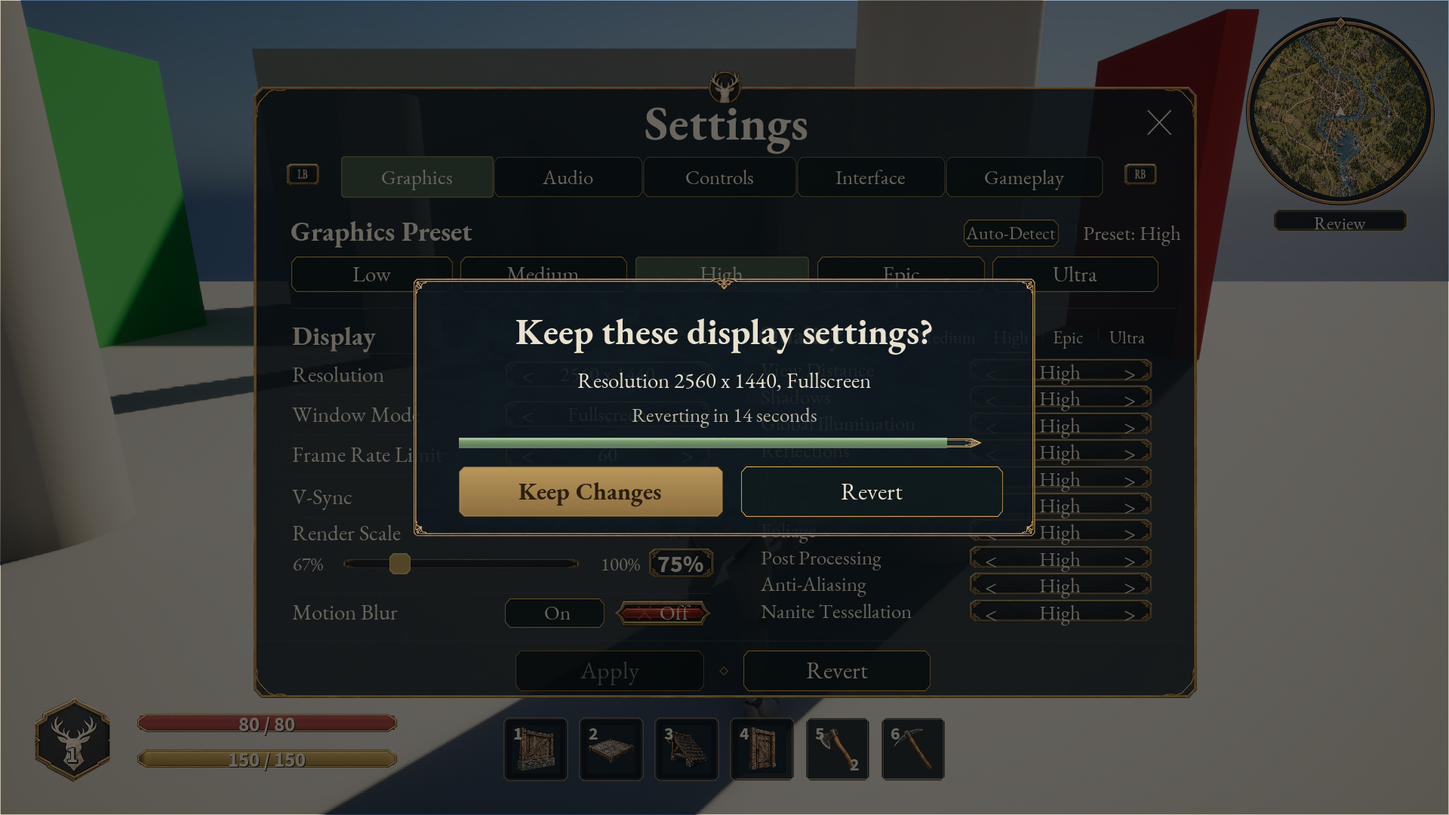
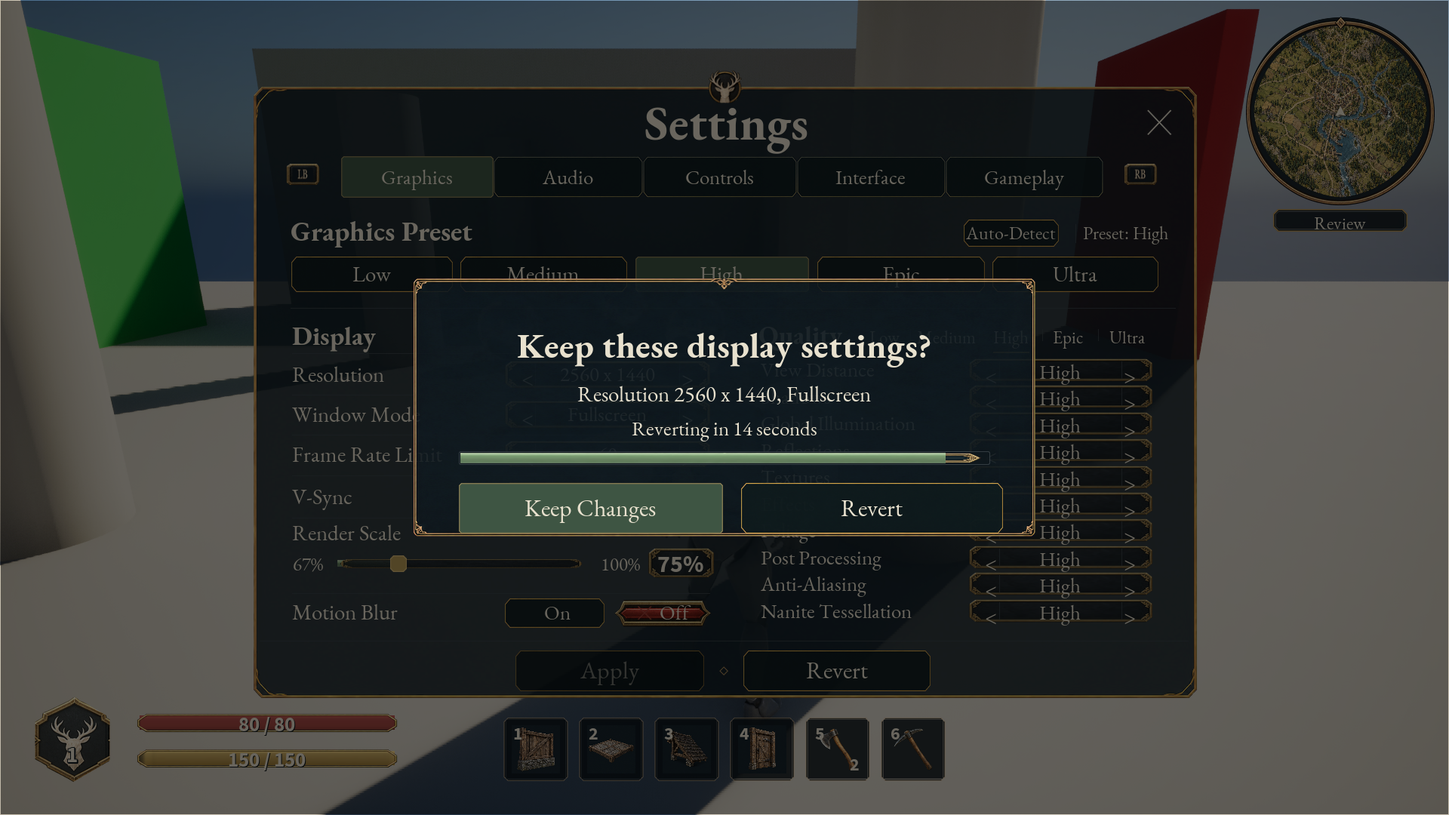
Graphics menu: apply Fable review 1 code fixes (stepper dividers, keep prompt, slider fill, Silverbrook scene captures)

Changed region(s): [[0.3125, 0.3972, 0.6875, 0.6722], [0.75, 0.275, 0.8125, 0.3056]]

diff --git a/GameClient/Source/ShatteredFrontier/Private/Framework/SFGraphicsMenu.cpp b/GameClient/Source/ShatteredFrontier/Private/Framework/SFGraphicsMenu.cpp
@@ -153,7 +153,7 @@ void USFGraphicsMenu::NativeOnInitialized()
     Click(Detect.Button, [Self]() { if (USFGraphicsMenu* Menu = Self.Get()) { Menu->DoAutoDetect(); } });
     Put(Stage, Detect.Root, 1112.f, 253.f, 110.f, 31.f);
     Put(Stage, Panel(WidgetTree, Hairline(), Hairline(), FMargin(0.f), 0.f), 1241.f, 258.f, 1.f / S, 22.f);
-    UTextBlock* Status = Text(WidgetTree, TEXT("Preset: High"), 20, Ivory());
+    UTextBlock* Status = Text(WidgetTree, TEXT("Preset: High"), 18, Ivory());
     StatusText = Status;
     PutText(Stage, Status, 1250.f, 269.f);
     for (int32 Index = 0; Index < 5; ++Index)
@@ -182,7 +182,7 @@ void USFGraphicsMenu::NativeOnInitialized()
         ValueSlot->SetHorizontalAlignment(HAlign_Center); ValueSlot->SetVerticalAlignment(VAlign_Center);
         for (int32 Dir : {-1, 1})
         {
-            UTextBlock* Arrow = Text(WidgetTree, Dir < 0 ? TEXT("<") : TEXT(">"), FontSize + 2, Ivory()); Arrow->SetJustification(ETextJustify::Center); Arrow->SetRenderTranslation(FVector2D(0.f, -4.f));
+            UTextBlock* Arrow = Text(WidgetTree, Dir < 0 ? TEXT("<") : TEXT(">"), FontSize + 2, Ivory()); Arrow->SetJustification(ETextJustify::Center);
             USizeBox* Hit = WidgetTree->ConstructWidget<USizeBox>(USizeBox::StaticClass());
             Hit->SetWidthOverride(36.f); Hit->SetContent(Arrow);
             UBorder* Center = WidgetTree->ConstructWidget<UBorder>(UBorder::StaticClass());
@@ -191,6 +191,15 @@ void USFGraphicsMenu::NativeOnInitialized()
             Click(ArrowButton, [Self, Step, Dir]() { Step(Dir); if (USFGraphicsMenu* Menu = Self.Get()) { Menu->Refresh(); } });
             UOverlaySlot* ArrowSlot = Box->AddChildToOverlay(ArrowButton);
             ArrowSlot->SetHorizontalAlignment(Dir < 0 ? HAlign_Left : HAlign_Right); ArrowSlot->SetVerticalAlignment(VAlign_Fill); ArrowSlot->SetPadding(FMargin(4.f, 0.f));
+        }
+        for (const bool bLeft : {true, false})
+        {
+            USizeBox* Divider = WidgetTree->ConstructWidget<USizeBox>(USizeBox::StaticClass());
+            Divider->SetWidthOverride(1.f); Divider->SetContent(Panel(WidgetTree, Hairline(), Hairline(), FMargin(0.f), 0.f));
+            Divider->SetVisibility(ESlateVisibility::HitTestInvisible);
+            UOverlaySlot* DividerSlot = Box->AddChildToOverlay(Divider);
+            DividerSlot->SetHorizontalAlignment(bLeft ? HAlign_Left : HAlign_Right); DividerSlot->SetVerticalAlignment(VAlign_Fill);
+            DividerSlot->SetPadding(FMargin(bLeft ? 40.f : 0.f, 4.f, bLeft ? 0.f : 40.f, 4.f));
         }
         Steppers.Add({ValueText, MoveTemp(Value)});
         return Box;
@@ -208,6 +217,7 @@ void USFGraphicsMenu::NativeOnInitialized()
             UHorizontalBox* Content = WidgetTree->ConstructWidget<UHorizontalBox>(UHorizontalBox::StaticClass());
             Content->SetVisibility(ESlateVisibility::HitTestInvisible);
             USizeBox* Glyph = SFHudStyle::KitImage(WidgetTree, bOnSide ? TEXT("status_tick") : TEXT("status_cross"), 24.f);
+            if (UImage* GlyphImage = Cast<UImage>(Glyph->GetContent())) { GlyphImage->SetColorAndOpacity(SFHudStyle::Ivory()); }
             Content->AddChildToHorizontalBox(Glyph)->SetVerticalAlignment(VAlign_Center);
             Content->AddChildToHorizontalBox(SFHudStyle::Text(WidgetTree, bOnSide ? TEXT("On") : TEXT("Off"), 20, SFHudStyle::Ivory()))->SetPadding(FMargin(8.f, 0.f, 0.f, 0.f));
             UOverlaySlot* ContentSlot = Face->AddChildToOverlay(Content);
@@ -258,11 +268,16 @@ void USFGraphicsMenu::NativeOnInitialized()
     Slider->SetMinValue(67.f); Slider->SetMaxValue(100.f); Slider->SetStepSize(1.f);
     FSliderStyle SliderStyle = Slider->GetWidgetStyle();
     if (const FSFHudKitElement* Track = Kit(TEXT("slider_track"))) { SliderStyle.NormalBarImage = SliderStyle.HoveredBarImage = SliderStyle.DisabledBarImage = KitBrush(*Track); }
-    if (const FSFHudKitElement* Thumb = Kit(TEXT("slider_thumb"))) { SliderStyle.NormalThumbImage = SliderStyle.HoveredThumbImage = SliderStyle.DisabledThumbImage = KitBrush(*Thumb); }
+    if (const FSFHudKitElement* Thumb = Kit(TEXT("slider_thumb"))) { FSlateBrush ThumbBrush = KitBrush(*Thumb); ThumbBrush.ImageSize = FVector2D(22.f, 22.f); SliderStyle.NormalThumbImage = SliderStyle.HoveredThumbImage = SliderStyle.DisabledThumbImage = ThumbBrush; }
     SliderStyle.BarThickness = 12.f;
     Slider->SetWidgetStyle(SliderStyle);
     Slider->OnValueChanged.AddDynamic(this, &USFGraphicsMenu::HandleSlider);
     ScaleSlider = Slider;
+    UProgressBar* ScaleFill = WidgetTree->ConstructWidget<UProgressBar>(UProgressBar::StaticClass());
+    StyleBar(ScaleFill, Moss());
+    FProgressBarStyle FillStyle = ScaleFill->GetWidgetStyle(); FillStyle.BackgroundImage = FSlateNoResource(); ScaleFill->SetWidgetStyle(FillStyle);
+    ScaleFillBar = ScaleFill;
+    Put(Stage, ScaleFill, 389.f, 646.f, 286.f, 8.f);
     Put(Stage, Slider, 383.f, 638.f, 298.f, 24.f);
     PutText(Stage, Text(WidgetTree, TEXT("100%"), 19, Ivory()), 693.f, 650.f);
     UOverlay* ScaleBox = WidgetTree->ConstructWidget<UOverlay>(UOverlay::StaticClass());
@@ -353,25 +368,27 @@ void USFGraphicsMenu::NativeOnInitialized()
     UBorder* Dim = WidgetTree->ConstructWidget<UBorder>(UBorder::StaticClass());
     Dim->SetBrush(Frame(FLinearColor(0.f, 0.f, 0.f, 0.55f), FLinearColor::Transparent, 0.f));
     UCanvasPanelSlot* DimSlot = Prompt->AddChildToCanvas(Dim); DimSlot->SetAnchors(FAnchors(0.f, 0.f, 1.f, 1.f)); DimSlot->SetOffsets(FMargin(0.f));
-    UBorder* Modal = KitPanel(WidgetTree, TEXT("modal_frame"), 1.f, Slate(0.96f), Brass(), FMargin(40.f, 28.f), 6.f);
+    UBorder* Modal = KitPanel(WidgetTree, TEXT("modal_frame"), 1.f, Slate(0.96f), Brass(), FMargin(40.f, 48.f), 6.f);
     UVerticalBox* Body = WidgetTree->ConstructWidget<UVerticalBox>(UVerticalBox::StaticClass());
     Modal->SetContent(Body);
-    UTextBlock* KeepHead = Heading(WidgetTree, TEXT("Keep these display settings?"), 36, Ivory()); KeepHead->SetJustification(ETextJustify::Center);
+    UTextBlock* KeepHead = Heading(WidgetTree, TEXT("Keep these display settings?"), 35, Ivory()); KeepHead->SetJustification(ETextJustify::Center);
     KeepTitle = KeepHead;
     Body->AddChildToVerticalBox(KeepHead)->SetHorizontalAlignment(HAlign_Center);
     UTextBlock* KeepDetail = Text(WidgetTree, TEXT(""), 22, Ivory()); KeepDetail->SetJustification(ETextJustify::Center);
     KeepDetailText = KeepDetail;
     Body->AddChildToVerticalBox(KeepDetail)->SetPadding(FMargin(0.f, 14.f, 0.f, 0.f));
-    UTextBlock* Countdown = Text(WidgetTree, TEXT(""), 20, Hex(TEXT("BDB6A2"))); Countdown->SetJustification(ETextJustify::Center);
+    UTextBlock* Countdown = Text(WidgetTree, TEXT(""), 20, Ivory()); Countdown->SetJustification(ETextJustify::Center);
     KeepCountdown = Countdown;
     Body->AddChildToVerticalBox(Countdown)->SetPadding(FMargin(0.f, 8.f, 0.f, 12.f));
     UProgressBar* Bar = WidgetTree->ConstructWidget<UProgressBar>(UProgressBar::StaticClass());
     StyleBar(Bar, Moss()); Bar->SetPercent(1.f); KeepBar = Bar;
     USizeBox* BarSize = WidgetTree->ConstructWidget<USizeBox>(USizeBox::StaticClass());
-    BarSize->SetWidthOverride(574.f * S); BarSize->SetHeightOverride(14.f); BarSize->SetContent(Bar);
+    BarSize->SetWidthOverride(574.f * S); BarSize->SetHeightOverride(18.f);
+    UBorder* BarFrame = Panel(WidgetTree, WellFill(), Hairline(), FMargin(2.f), 3.f); BarFrame->SetContent(Bar); BarSize->SetContent(BarFrame);
     Body->AddChildToVerticalBox(BarSize)->SetPadding(FMargin(0.f, 0.f, 0.f, 24.f));
     UHorizontalBox* Buttons = WidgetTree->ConstructWidget<UHorizontalBox>(UHorizontalBox::StaticClass());
-    const FSFHudButton Keep = Button(WidgetTree, TEXT("Keep Changes"), EButtonKind::Primary, 305.f * S);
+    const FSFHudButton Keep = Button(WidgetTree, TEXT("Keep Changes"), EButtonKind::Secondary, 305.f * S);
+    ApplyButtonStyle(Keep.Button, EButtonKind::Secondary, true);
     Keep.Root->SetHeightOverride(58.f * S);
     Click(Keep.Button, [Self]() { if (USFGraphicsMenu* Menu = Self.Get()) { Menu->DoKeep(); } });
     const FSFHudButton Undo = Button(WidgetTree, TEXT("Revert"), EButtonKind::Secondary, 302.f * S);
@@ -454,7 +471,7 @@ void USFGraphicsMenu::Refresh()
         if (Entry.OnTick.IsValid()) { Entry.OnTick->SetVisibility(bOn ? ESlateVisibility::HitTestInvisible : ESlateVisibility::Collapsed); }
         if (Entry.OffCross.IsValid()) { Entry.OffCross->SetVisibility(bOn ? ESlateVisibility::Collapsed : ESlateVisibility::HitTestInvisible); }
     }
-    if (ScaleSlider.IsValid()) { bRefreshingSlider = true; ScaleSlider->SetValue(static_cast<float>(Pending.RenderScale)); bRefreshingSlider = false; }
+    if (ScaleSlider.IsValid()) { bRefreshingSlider = true; ScaleSlider->SetValue(static_cast<float>(Pending.RenderScale)); if (ScaleFillBar.IsValid()) { ScaleFillBar->SetPercent((Pending.RenderScale - 67) / 33.f); } bRefreshingSlider = false; }
     if (ScaleText.IsValid()) { ScaleText->SetText(FText::FromString(FString::Printf(TEXT("%d%%"), Pending.RenderScale))); }
     int32 All = -1;
     if (Pending.ViewDistance == Pending.Shadows && Pending.Shadows == Pending.GlobalIllumination && Pending.GlobalIllumination == Pending.Reflections && Pending.Reflections == Pending.Textures

diff --git a/GameClient/Source/ShatteredFrontier/Public/Framework/SFGraphicsMenu.h b/GameClient/Source/ShatteredFrontier/Public/Framework/SFGraphicsMenu.h
@@ -76,7 +76,7 @@ private:
     TWeakObjectPtr<UTextBlock> StatusText, ScaleText, KeepTitle, KeepDetailText, KeepCountdown;
     TWeakObjectPtr<UButton> ApplyButton;
     TWeakObjectPtr<USlider> ScaleSlider;
-    TWeakObjectPtr<UProgressBar> KeepBar;
+    TWeakObjectPtr<UProgressBar> KeepBar, ScaleFillBar;
     TWeakObjectPtr<UWidget> KeepLayer;
     bool bRefreshingSlider = false;
     bool bSuppressEngineApply = false;

diff --git a/docs/evidence/graphics-settings/REVIEW-1.md b/docs/evidence/graphics-settings/REVIEW-1.md
@@ -1,0 +1,93 @@
+# Settings > Graphics: independent review (Fable, 2026-10-22)
+
+Judged against `docs/Game-Design/concept-art/UI/v5/14b-settings-graphics.png`, `14c-settings-keep-revert.png`, DEC-05 (`docs/decisions/OWNER-2026-10-22-decisions.md`), `docs/blueprints/menus.md` sections 1, 2, 5 and `docs/visual-review.md`. Every full-size frame in `captures/` was read at 1920x1080; pixel reports in `diff/*/report.md` were weighed with the note that the AI concept's proportions are loose. All measurements below are at 1920x1080, live minus concept.
+
+Result: 4 PASS, 7 FAIL.
+
+| Screen | Verdict |
+| --- | --- |
+| Graphics menu (High) | FAIL |
+| Preset Low | PASS (behaviour) |
+| Preset Medium | PASS (behaviour) |
+| Preset High | PASS (behaviour) |
+| Preset Epic | PASS (behaviour) |
+| Preset Ultra | FAIL (shares every menu defect; behaviour correct) |
+| Custom | FAIL (shares every menu defect; behaviour correct) |
+| Keep prompt | FAIL |
+| Scene Low | FAIL (evidence) |
+| Scene High | FAIL (evidence) |
+| Scene Ultra | FAIL (evidence) |
+
+Behaviour (highlight, label, strip underline, Apply enable, keep timer) is correct on every state. The menu fails on art treatment and geometry, not on logic. The scene frames fail as evidence, not as rendering.
+
+## Graphics menu (High) - FAIL
+
+Pixel report: 2 of 33 elements PASS. Layout (window 1249x810 at 336,115; tabs; preset buttons; footer) is within tolerance. The failures are the control art and the header ornaments.
+
+1. **Stepper arrows sit low and are text glyphs.** Concept: chevron glyphs vertically centred in their own 36 px end cells with a hairline divider between cell and value; live: `<` `>` EB Garamond text at 22 px, baseline 4-5 px below the value's centre line (measured in `captures/menu-high.png` at the Resolution row: value centre y 496, arrow centre y 500-501), no divider cells. Same on all 13 steppers (3 display, 10 quality).
+   Fix type: CODE. `SFGraphicsMenu.cpp` `Stepper` lambda, lines 185-193: replace the `UTextBlock` arrows with `KitImage(WidgetTree, TEXT("chevron_left"|"chevron_right"), 14.f, 14.f)` if the kit has them, otherwise keep the text but drop `SetRenderTranslation(FVector2D(0.f, -4.f))` and set `Arrow->SetFont(RoleFont(TextFamily(), FontSize, false))` with `ArrowSlot->SetVerticalAlignment(VAlign_Center)` and `SetPadding(FMargin(10.f, 0.f))`, and add a 1 px `Hairline()` `Panel` at x 36 and x W-36 inside the overlay (concept divider). Verify: arrow glyph centre within 1 px of the value centre.
+2. **Stepper plate art differs from the concept.** Concept: plain rounded well with a single brass hairline (272x37, radius ~4); live: `stepper_field` piece with ornamental brass corner wedges and a visible dark gradient, and the diff found the live plate 41 px wider and 19 px taller than the concept rect (dx -20, dy -10) because the piece's wedges extend past the nine-slice body. Quality rows: live 243 wide but shifted +7 px and 14 px narrower in the body.
+   Fix type: ART (shared). `GameClient/ArtSource/UI/Kit-v5/stepper_field.png`, regenerate at 2x (544x74), nine-slice [36,19,36,19] kept, prompt: "UI nine-slice field plate, dark slate well #0E171C with a single 2 px brass #A98A55 hairline border, 8 px corner radius, no corner ornaments, no inner gradient, flat; reference crop: 14b-settings-graphics.png x 582-820, y 416-448 (Resolution stepper)". Then `py -3 tools/Process-KitV5.py` and `tools/Run-InEditor.py tools/Import-HudKit.py --save`. Station panel uses the same piece; recapture it too.
+3. **Toggle Off plate is the shield-shaped destructive piece and the cross is invisible.** Concept Off (chosen) is a rounded crimson plate 129x39 with an ivory ✕; live `button_destructive` has pointed brass end caps that overhang the row box by ~8 px each side (x 818-942 against the 820-940 slot) and the `status_cross` glyph renders dark red on crimson (sampled 30,23,18 on the plate vs ivory in the concept), effectively missing at 1:1. Affects V-Sync and Motion Blur rows in every state.
+   Fix type: CODE + ART. CODE: `SFGraphicsMenu.cpp` `Toggle` lambda line 210, after `KitImage(...)`, tint the glyph: `if (UImage* Img = Cast<UImage>(Glyph->GetChildAt(0))) { Img->SetColorAndOpacity(Ivory()); }`. ART (shared): `Kit-v5/button_destructive.png`, regenerate at 2x (same canvas), nine-slice [40,28,...] kept, prompt: "UI nine-slice button plate, crimson #A34842 fill, 2 px brass #A98A55 hairline, 8 px radius, straight ends, no pointed caps; reference crop: 14b-settings-graphics.png x 709-820, y 690-725 (Motion Blur Off)".
+4. **Close button is a bare glyph.** Concept: 46x46 boxed X (slate plate, brass hairline); live: 40 px `close_x` glyph on nothing, 8 px left and 7 px up of the concept box. Same piece is used by Inventory, Exchange and Gathering Skills, so this is a kit-wide decision; here it reads as unfinished against the concept.
+   Fix type: ART (shared). `Kit-v5/close_x.png` at 92x92 (2x of 46), prompt: "UI close button, 46x46 at 1x, slate #17232A plate with 2 px brass #A98A55 hairline and 6 px radius, centred ivory #E8E1CE X stroke 3 px; reference crop: 14b-settings-graphics.png x 1318-1358, y 121-161". CODE: `SFGraphicsMenu.cpp` line 133 `Put(Stage, Close, 1318.f, 121.f, 40.f, 40.f)` -> `Put(Stage, Close, 1313.f, 116.f, 46.f, 46.f)` and `KitImage(..., 46.f)` on line 131.
+5. **Controller keycaps are unreadable.** Concept `LB`/`RB`: 48x30 pill, label ~16 px cap height; live: 44x28 rectangle with ~9 px text.
+   Fix type: ART (shared). `Kit-v5/keycap_lb.png` and `keycap_rb.png` at 96x60 (2x), prompt: "Controller keycap pill 48x30 at 1x, slate #17232A fill, 2 px brass #A98A55 hairline, full-radius ends, centred label 'LB' (resp. 'RB') in EB Garamond bold ~16 px ivory #E8E1CE; reference crop: 14b-settings-graphics.png x 330-372, y 189-215". CODE: `SFGraphicsMenu.cpp` lines 134-135 size args `44.f, 30.f` and `44.f / S, 28.f / S` -> `48.f, 30.f` and `48.f / S, 30.f / S`.
+6. **Header ornaments are missing.** Concept: a crest tab (~120x40 trapezoid rising above the frame top at x 900-1020) holding the stag emblem, and flanking title rules "—◇—" (~130 px each side of "Settings" at y 165); live: stag emblem floats over the plain top border at 920-1000 x 95-135, no crest tab, no rules. Title cap height: concept ~44 px box, live 48 pt bold measures ~55 px tall and 215 px wide against the concept's 161x44 (match 0.49).
+   Fix type: ART + CODE. ART: new `Kit-v5/window_crest.png` 240x80 (2x of 120x40), nine-slice none, prompt: "Ornamental brass #A98A55 crest tab for a window frame top edge, trapezoid with chamfered shoulders, dark slate #17232A fill, open at the bottom so it merges with the frame; reference crop: 14b-settings-graphics.png x 780-900, y 68-110". New `Kit-v5/title_rule.png` 260x16 (2x of 130x8), prompt: "Thin brass #A98A55 horizontal rule with a small diamond at the inner end, fades out at the outer end, transparent background; reference crop: 14b-settings-graphics.png x 635-740, y 138-146". CODE: `SFGraphicsMenu.cpp` lines 128-130: `Put(Stage, KitImage(WidgetTree, TEXT("window_crest"), 120.f, 40.f), 779.f, 66.f, 120.f / S, 40.f / S)` before the emblem; `Heading(..., TEXT("Settings"), 42, ...)` (concept box 161x44; re-measure after and settle on the size whose cap height is within 1 px); `Put(Stage, KitImage(WidgetTree, TEXT("title_rule"), 130.f, 8.f), 638.f, 137.f, 130.f / S, 8.f / S)` and a mirrored copy (`SetRenderScale(FVector2D(-1.f, 1.f))`) at x 928.
+7. **Render Scale slider has no filled segment and a square thumb.** Concept: track 342x21 with a moss fill from 67% to the thumb, round brass thumb ~22 px; live: unfilled dark track 12 px thick, rounded-square brass thumb ~30x30, value plate uses the ornamental stepper piece.
+   Fix type: CODE. `SFGraphicsMenu.cpp` lines 257-266: put a `UProgressBar` styled with `StyleBar(Bar, Moss())` under the slider in an overlay (same `Put` rect 383,638,298,24 with `VAlign_Center`, height 12), set its percent in `Refresh()` to `(Pending.RenderScale - 67) / 33.f`; set `SliderStyle.NormalThumbImage.ImageSize = FVector2D(22.f, 22.f)` (and Hovered/Disabled). ART (shared): `Kit-v5/slider_thumb.png` at 44x44 (2x), prompt: "Round brass #A98A55 slider knob 22 px at 1x with a darker brass rim and a small ivory highlight, transparent background; reference crop: 14b-settings-graphics.png x 568-598, y 636-664".
+8. **Selected plate colour is out of tolerance.** `tab_selected` fill samples at (62,85,67) on the Graphics tab and the High preset; dE2000 3.2 and 6.6 against the concept moss (#2B3B2C canonical in menus.md section 1). This is the shared selected piece, so it affects every menu that has already passed; the kit, not this menu, is the place to fix it, and only if the owner wants the darker moss. Reported, not in the fix list.
+9. **Revert footer plate colour.** Live Revert well sampled (16,28,30); concept plate is a lighter grey (dE 8.9). Live follows the canonical `button_normal` well; concept disagrees. Section 1 wins per menus.md section 2; reported only.
+10. **State data vs concept (reported, owner call, not in the fix list).** Concept High shows V-Sync On, Render Scale 85%, Fullscreen; live High (from `SFGraphicsPresets.cpp` `DefaultRow`) is V-Sync off, 75%, and the capture is Windowed. 75% is tied to the GFX-01 Standard tier so the number stays unless the owner changes the tier; V-Sync default is a tuning value. Window mode is capture environment.
+
+## Preset Low / Medium / High / Epic - PASS (behaviour)
+
+Each frame shows exactly one preset plate in the moss selected state, `Preset: <name>` matches it, the Quality strip underlines the same level, all ten quality steppers read that level (Low: Nanite Tessellation "Off", correct), Render Scale/frame cap/Motion Blur follow the preset table (67/70/75/85/100 %, 60/60/60/120/Unlimited, blur on from Epic), Apply enabled when dirty. Visual defects 1-7 above apply to every frame and are counted once in the menu verdict.
+
+## Preset Ultra - FAIL
+
+Behaviour correct (Ultra selected, Unlimited, 100%, Motion Blur On with tick, strip underline on Ultra). Fails on the same art items 1-7 and nothing else; listed FAIL because the frame is also the first time the slider thumb sits at the track's right end, where the live thumb (30 px square) overhangs the track end by 6 px (thumb right edge x 783 vs track end 777 in `captures/menu-ultra.png`). Fix 7 covers it.
+
+## Custom - FAIL
+
+Behaviour correct: Shadows stepped to Ultra, no preset plate highlighted, `Preset: Custom`, no strip underline, Apply enabled. The status text "Preset: Custom" right edge lands at x 1593, 8 px past the window frame's inner edge at 1585 and overlapping the frame's brass hairline (concept keeps a 24 px inset). Fails on that plus items 1-7.
+   Fix type: CODE. `SFGraphicsMenu.cpp` line 158: `PutText(Stage, Status, 1250.f, 269.f)` -> `PutText(Stage, Status, 1350.f, 269.f, 1.f)` (right-align at the Ultra button's right edge, 1337 + 13 in concept units; concept has the label right-aligned to x 1338 at 1080p).
+
+## Keep prompt - FAIL
+
+Modal 823x336 at 548,372 is within 2 px horizontally and 5-7 px short vertically. Behaviour is right: 15 s countdown ticking, bar draining, Keep/Revert wired, Escape reverts.
+
+1. **Keep Changes is brass, concept is moss.** Live primary plate sampled (169,136,82) with dark ink; concept Keep is the moss selected plate with ivory text and brass edge (same as this menu's enabled Apply). dE far beyond 3; match 0.34.
+   Fix type: CODE. `SFGraphicsMenu.cpp` line 374: `Button(WidgetTree, TEXT("Keep Changes"), EButtonKind::Primary, 305.f * S)` -> `EButtonKind::Secondary`, then after it `ApplyButtonStyle(Keep.Button, EButtonKind::Secondary, true)` (the same call the enabled Apply uses on line 340).
+2. **Content sits 9-22 px too high.** Title dy -22, detail -13, countdown -9: the modal's top padding is 28 px against the concept's ~50 px between frame and title cap.
+   Fix type: CODE. `SFGraphicsMenu.cpp` line 356: `FMargin(40.f, 28.f)` -> `FMargin(40.f, 48.f, 40.f, 28.f)`; line 364 detail padding `FMargin(0.f, 14.f, 0.f, 0.f)` -> `FMargin(0.f, 10.f, 0.f, 0.f)`; line 367 countdown `FMargin(0.f, 8.f, 0.f, 12.f)` -> `FMargin(0.f, 4.f, 0.f, 12.f)`. Re-run the diff; target dy within 2 for all four text rows.
+3. **Countdown colour.** Live `Hex("BDB6A2")` samples (117,116,108) on the dark plate; concept countdown is ivory. Fix type: CODE. Line 365 `Hex(TEXT("BDB6A2"))` -> `Ivory()`.
+4. **Bar fill is the HUD stamina-style bar with an arrow tip.** Concept: moss fill inside a brass-framed 659x18 track, square ends; live: 659x14 `bar_fill_moss` whose brass arrow tip overhangs the track by ~12 px at the right (x 1300 vs track end 1288 in `captures/menu-keep.png`) and no visible track frame. Fix type: CODE. Line 371 `SetHeightOverride(14.f)` -> `18.f`, and wrap `Bar` in `Panel(WidgetTree, WellFill(), Hairline(), FMargin(2.f), 3.f)` so the frame shows; if the overhang persists, it is the shared `bar_fill_moss` piece and goes to ART: `Kit-v5/bar_fill_moss.png`, regenerate with square ends (prompt: "nine-slice bar fill, moss #7FA07A with a 1 px darker rim, square ends, no arrow cap; reference crop: 14c-settings-keep-revert.png x 548-1122, y 508-526").
+5. **Title width.** Live 36 pt bold measures 549 wide vs concept 526 (dw +23). Fix type: CODE. Line 359 `36` -> `35`, re-measure; cap height must land within 1 px of the concept's 48 px box.
+6. The stepper and toggle defects of the menu (items 1-3 above) are visible through the dim and count once there.
+
+## Scene Low - FAIL (evidence) / Scene High - FAIL (evidence) / Scene Ultra - FAIL (evidence)
+
+Rendering is sensible: Low has no dynamic shadows from the pillars or the mannequin, sky-only reflections on the spheres, no GI bounce (the wall reads flat blue-grey), darker exposure; High has contact shadows, scene reflections on the spheres, GI bounce on the wall; Ultra sharpens the sphere reflections and shadow edges slightly. Low vs High is unmistakable. High vs Ultra is not: the two frames differ only in reflection detail on three spheres and the only preset values that could show on this test map (view distance, foliage, textures, Nanite tessellation, 75% vs 100% render scale) have nothing to act on. A player comparing High and Ultra here would say nothing changed, so the three frames do not demonstrate the preset ladder DEC-05 asks for.
+   Fix type: LEVEL (capture). Recapture `scene-low/high/ultra.png` in `/Game/Frontier/Maps/Greenlands/Greenlands_Silverbrook` from the same bookmark as the HUD captures (foliage, distant buildings, textured props), 1920x1080 `-game`, same time of day; keep the test-map set as a secondary strip. Acceptance: at 1:1 crop, Ultra vs High shows at least one of: farther foliage/draw distance, higher texture mip, finer shadow cascade on a near prop; Low vs High unchanged from now.
+
+## Fix list
+
+Shared fixes first. Items 1-5 are the top five.
+
+1. **Engineer** - Stepper arrows: `SFGraphicsMenu.cpp` `Stepper` lambda lines 185-193, remove the -4 px render translation, centre the glyph in a 36 px cell with `VAlign_Center`, add the two hairline cell dividers (menu item 1). Covers all 13 steppers.
+2. **Codex** - Regenerate `Kit-v5/stepper_field.png` as a plain rounded brass-hairline well (menu item 2, prompt there), reprocess and reimport the kit; recapture station panel too.
+3. **Engineer** - Keep prompt: `Keep Changes` to `Secondary` + `ApplyButtonStyle(..., true)` (moss), countdown `Ivory()`, modal top padding 48, text paddings 10/4, bar 18 px in a `Panel` frame, title 35 (keep items 1-5).
+4. **Engineer + Codex** - Toggle Off: tint the `status_cross` ivory in the `Toggle` lambda (line 210); Codex regenerates `Kit-v5/button_destructive.png` with straight ends (menu item 3).
+5. **Engineer** - Render Scale: moss fill `UProgressBar` under the slider driven from `Refresh()`, 22 px thumb image size; Codex regenerates `Kit-v5/slider_thumb.png` round (menu item 7).
+6. **Codex + Engineer** - Close button: boxed 46x46 `close_x.png`; `Put` at 1313,116,46,46 (menu item 4).
+7. **Codex + Engineer** - Keycaps: 48x30 `keycap_lb/rb.png` with ~16 px labels; size args updated (menu item 5).
+8. **Codex + Engineer** - Header ornaments: new `window_crest.png` and `title_rule.png`, placed per menu item 6; title size 42 then re-measure.
+9. **Engineer** - `Preset: Custom` status right-aligned to x 1338 (Custom item).
+10. **Engineer** - If the bar tip still overhangs after fix 3, Codex regenerates `bar_fill_moss.png` with square ends (keep item 4).
+11. **Engineer** - Recapture `scene-low/high/ultra.png` in Greenlands_Silverbrook from the HUD bookmark; keep the test-map strip as secondary evidence (scene section).
+12. After 1-11: `py -3 tools/ui_pixel_diff.py --all`, `pwsh tools/Check-HudStyle.ps1`, new compare images, new Fable reviewer.
+
+Reported, not fixed here (owner or kit-wide calls): `tab_selected` fill dE 3.2-6.6 against canonical moss (menu item 8); Revert well colour vs concept (item 9); High preset V-Sync/85% and Windowed capture vs concept state (item 10).

diff --git a/docs/evidence/graphics-settings/diff/settings-graphics/report.md b/docs/evidence/graphics-settings/diff/settings-graphics/report.md
@@ -8,33 +8,33 @@ Tolerance: geometry +-2 px (left/top/width/height), colour dE2000 <= 3. dx/dy = 
 | title Settings | [884, 140, 161, 44] | - | - | - | - | 0.49 | - | FAIL |
 | close x | [1515, 139, 46, 46] | -8 | -7 | +15 | +15 | 0.67 | - | FAIL |
 | tab Graphics | [452, 207, 202, 55] | - | - | - | - | 0.46 | mossfill 3.2 | FAIL |
-| tab Audio | [655, 207, 198, 55] | +0 | +16 | -23 | -16 | 0.83 | - | FAIL |
-| tab Controls | [852, 207, 204, 55] | +11 | +2 | -18 | -2 | 0.72 | - | FAIL |
+| tab Audio | [655, 207, 198, 55] | +0 | +17 | -23 | -17 | 0.83 | - | FAIL |
+| tab Controls | [852, 207, 204, 55] | +11 | +2 | -18 | -2 | 0.73 | - | FAIL |
 | tab Interface | [1056, 207, 196, 55] | +1 | +22 | -25 | -22 | 0.86 | - | FAIL |
-| tab Gameplay | [1253, 207, 209, 55] | +3 | +22 | -9 | -22 | 0.74 | - | FAIL |
+| tab Gameplay | [1253, 207, 209, 55] | +1 | +23 | -7 | -23 | 0.74 | - | FAIL |
 | label Graphics Preset | [385, 292, 201, 32] | +3 | +1 | +5 | +0 | 0.52 | - | FAIL |
 | button Auto-Detect | [1277, 291, 126, 36] | -11 | +0 | +21 | +1 | 0.53 | - | FAIL |
-| status Preset | [1435, 299, 103, 21] | - | - | - | - | 0.37 | - | FAIL |
-| preset Low | [386, 340, 215, 47] | +0 | +3 | -1 | -3 | 0.86 | platefill 1.9 | FAIL |
+| status Preset | [1435, 299, 103, 21] | - | - | - | - | 0.36 | - | FAIL |
+| preset Low | [386, 340, 215, 47] | +0 | +3 | -1 | -3 | 0.86 | platefill 2.0 | FAIL |
 | preset Medium | [610, 340, 222, 47] | +0 | +3 | -2 | -3 | 0.88 | - | FAIL |
 | preset High selected | [842, 340, 231, 47] | +0 | +4 | -1 | -4 | 0.60 | mossfill 6.6 | FAIL |
 | preset Epic | [1083, 340, 223, 47] | +0 | +3 | -2 | -3 | 0.85 | - | FAIL |
 | preset Ultra | [1315, 340, 220, 47] | +0 | +3 | +0 | -3 | 0.85 | - | FAIL |
 | heading Display | [387, 432, 94, 28] | - | - | - | - | 0.42 | - | FAIL |
 | stepper Resolution | [669, 478, 272, 37] | -20 | -10 | +41 | +19 | 0.64 | - | FAIL |
-| stepper Window Mode | [669, 531, 272, 37] | -20 | -11 | +41 | +19 | 0.65 | - | FAIL |
+| stepper Window Mode | [669, 531, 272, 37] | -20 | -11 | +41 | +19 | 0.64 | - | FAIL |
 | stepper Frame Rate | [669, 583, 272, 37] | -20 | -11 | +41 | +19 | 0.63 | - | FAIL |
 | vsync On | [669, 640, 132, 39] | +0 | +0 | -2 | -1 | 0.79 | - | PASS |
 | vsync Off | [814, 640, 129, 39] | - | - | - | - | 0.39 | - | FAIL |
-| render scale track | [440, 736, 342, 21] | - | - | - | - | 0.45 | - | FAIL |
+| render scale track | [440, 736, 342, 21] | - | - | - | - | 0.37 | - | FAIL |
 | render scale value | [859, 726, 87, 40] | - | - | - | - | 0.43 | - | FAIL |
 | motion blur On | [669, 792, 132, 39] | +1 | +1 | -2 | -3 | 0.80 | - | FAIL |
 | motion blur Off | [814, 792, 129, 39] | - | - | - | - | 0.17 | - | FAIL |
 | heading Quality | [1005, 429, 87, 28] | - | - | - | - | 0.46 | - | FAIL |
-| quality row View Distance | [1284, 475, 243, 31] | +7 | +6 | -14 | +0 | 0.52 | - | FAIL |
-| quality row Shadows | [1284, 511, 243, 31] | +7 | +6 | -14 | +0 | 0.50 | - | FAIL |
+| quality row View Distance | [1284, 475, 243, 31] | - | - | - | - | 0.48 | - | FAIL |
+| quality row Shadows | [1284, 511, 243, 31] | - | - | - | - | 0.49 | - | FAIL |
 | quality row Nanite Tessellation | [1284, 796, 243, 31] | - | - | - | - | 0.50 | - | FAIL |
 | button Apply | [683, 861, 250, 54] | +0 | +1 | -1 | +0 | 0.68 | - | PASS |
-| button Revert | [985, 861, 248, 54] | +0 | +1 | -1 | +0 | 0.74 | platefill 8.9 | FAIL |
+| button Revert | [985, 861, 248, 54] | +0 | +1 | -1 | +0 | 0.74 | platefill 8.8 | FAIL |
 
 Images: diff-heat.png (red = large difference), overlay-50.png, flip.gif (concept / live).

diff --git a/docs/evidence/graphics-settings/diff/settings-keep-revert/report.md b/docs/evidence/graphics-settings/diff/settings-keep-revert/report.md
@@ -4,12 +4,12 @@ Tolerance: geometry +-2 px (left/top/width/height), colour dE2000 <= 3. dx/dy = 
 
 | element | concept rect | dx | dy | dw | dh | match | colour dE | verdict |
 | --- | --- | --- | --- | --- | --- | --- | --- | --- |
-| modal frame | [548, 379, 824, 341] | +0 | -7 | -1 | -5 | 0.50 | panelfill 4.0, panelfill 4.6 | FAIL |
-| modal title | [700, 440, 526, 48] | -14 | -22 | +23 | -1 | 0.80 | - | FAIL |
-| modal detail | [762, 503, 395, 30] | +3 | -13 | -7 | +1 | 0.72 | - | FAIL |
-| modal countdown | [837, 545, 246, 30] | +0 | -9 | +0 | +0 | 0.76 | - | FAIL |
-| modal progress bar | [630, 586, 659, 18] | - | - | - | - | 0.45 | - | FAIL |
-| button Keep Changes | [597, 629, 350, 67] | - | - | - | - | 0.34 | - | FAIL |
-| button Revert | [976, 629, 347, 67] | +6 | -11 | +1 | +0 | 0.71 | - | FAIL |
+| modal frame | [548, 379, 824, 341] | +0 | -7 | -1 | -5 | 0.50 | panelfill 29.4, panelfill 6.4 | FAIL |
+| modal title | [700, 440, 526, 48] | -13 | -2 | +19 | -2 | 0.81 | - | FAIL |
+| modal detail | [762, 503, 395, 30] | +3 | +5 | -7 | +1 | 0.72 | - | FAIL |
+| modal countdown | [837, 545, 246, 30] | +0 | +9 | +0 | +0 | 0.76 | - | FAIL |
+| modal progress bar | [630, 586, 659, 18] | - | - | - | - | 0.47 | - | FAIL |
+| button Keep Changes | [597, 629, 350, 67] | - | - | - | - | 0.49 | - | FAIL |
+| button Revert | [976, 629, 347, 67] | +6 | +11 | +1 | +0 | 0.68 | - | FAIL |
 
 Images: diff-heat.png (red = large difference), overlay-50.png, flip.gif (concept / live).
